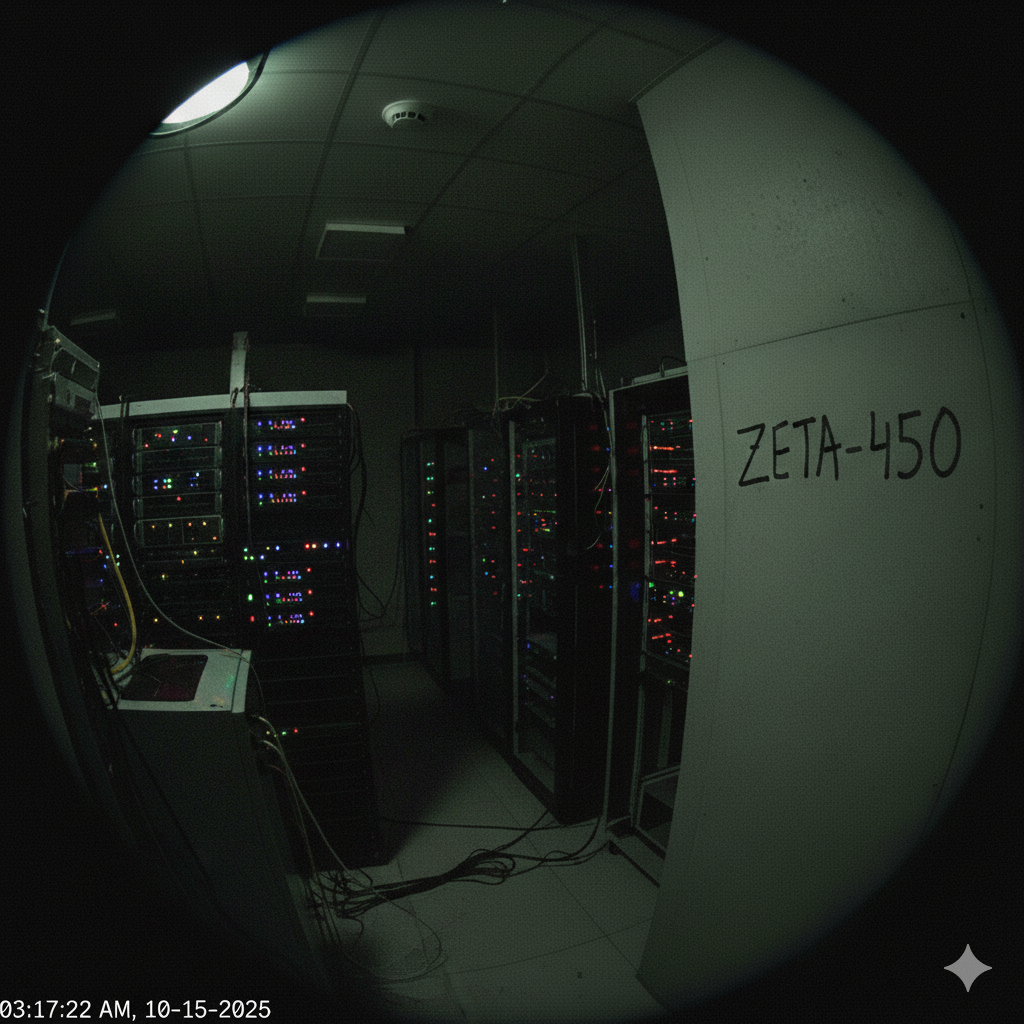
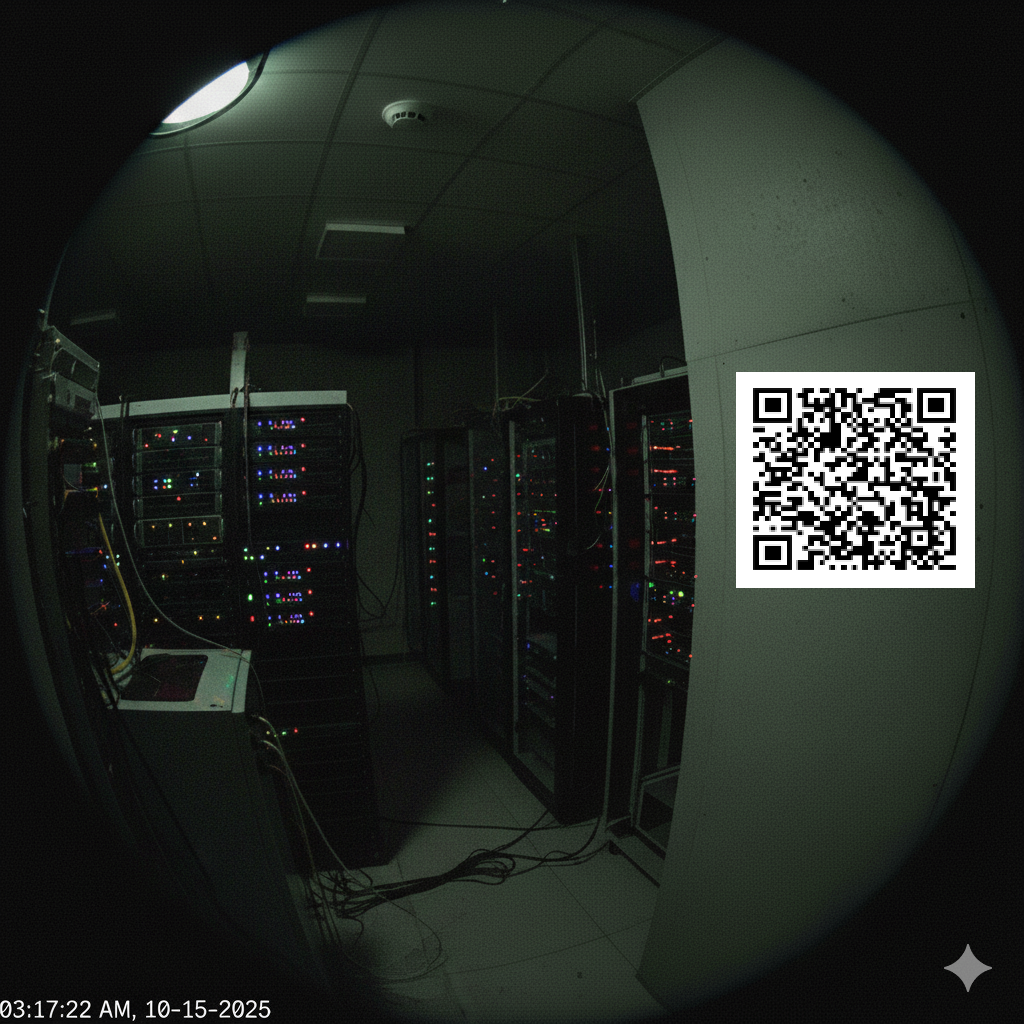
g

Changed region(s): [[0.7188, 0.3438, 0.9688, 0.5938]]

diff --git a/cam_log.html b/cam_log.html
@@ -163,6 +163,14 @@
         <div class="subtext" id="subtext">
           просмотрев логи камеры вы не заметили ничего подозрительного
         </div>
+        <a
+          id="nextLink"
+          href="https://ilanmar.github.io/Quiz_Protocol_Zero/zeta.html"
+          target="_blank"
+          rel="noopener"
+          style="display: none; margin-top: 12px; color: #90caf9"
+          >Перейти к следующей загадке</a
+        >
       </div>
     </div>
 
@@ -184,11 +192,13 @@
       const floppy = document.getElementById("floppyIcon");
       const cam = document.getElementById("camImage");
       const sub = document.getElementById("subtext");
+      const next = document.getElementById("nextLink");
 
       function showImage() {
         floppy.style.display = "none";
         cam.style.display = "block";
         sub.style.display = "block";
+        if (next) next.style.display = "inline-block";
       }
 
       function invalid() {
